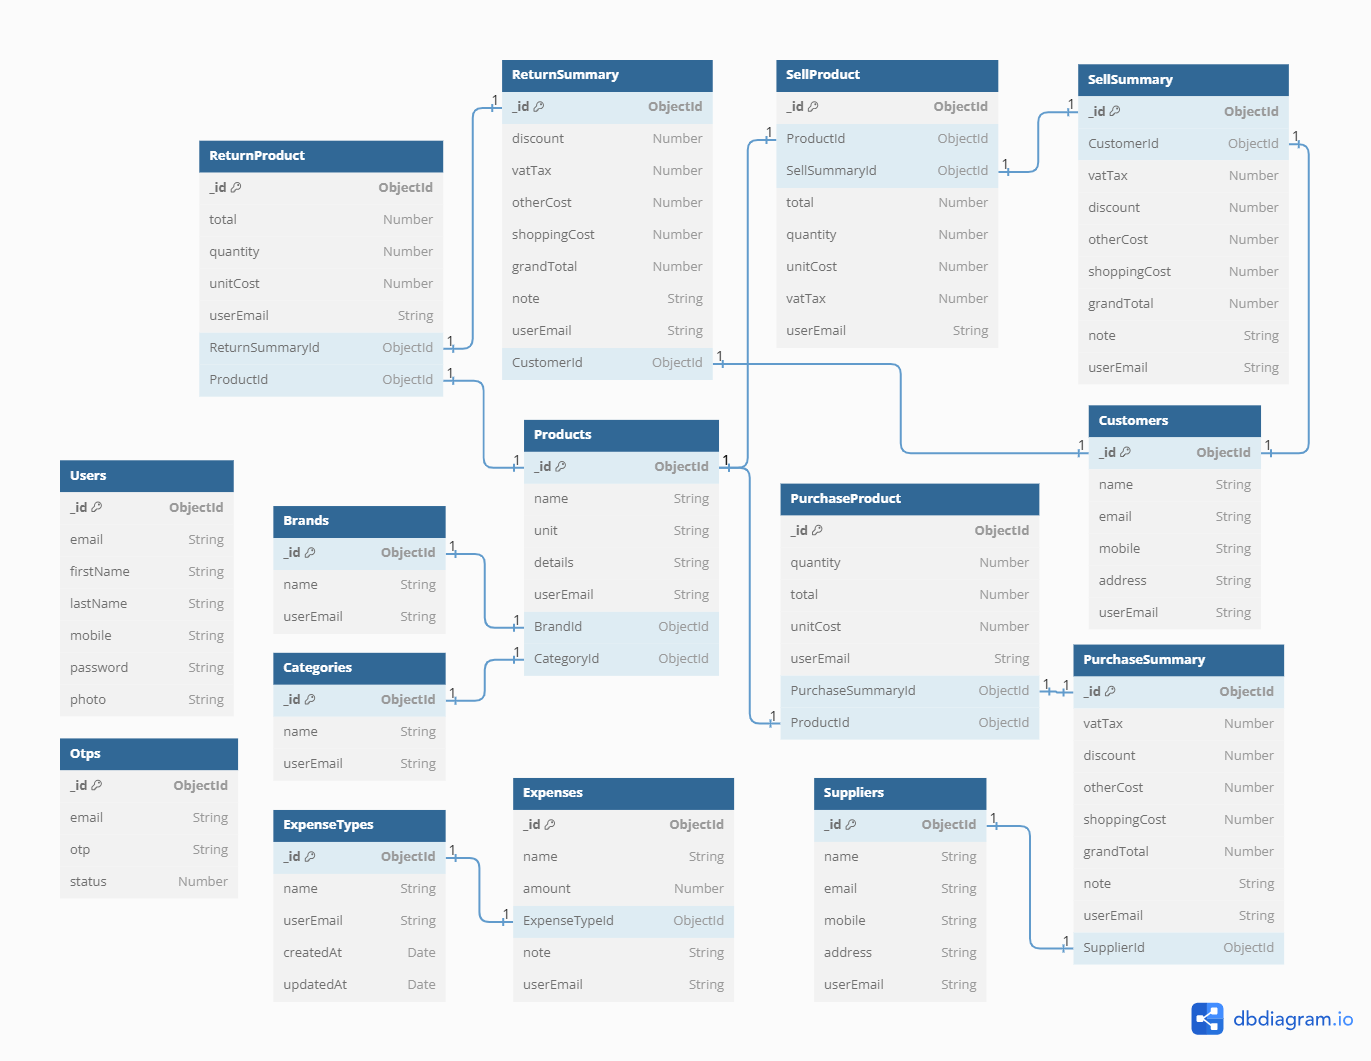
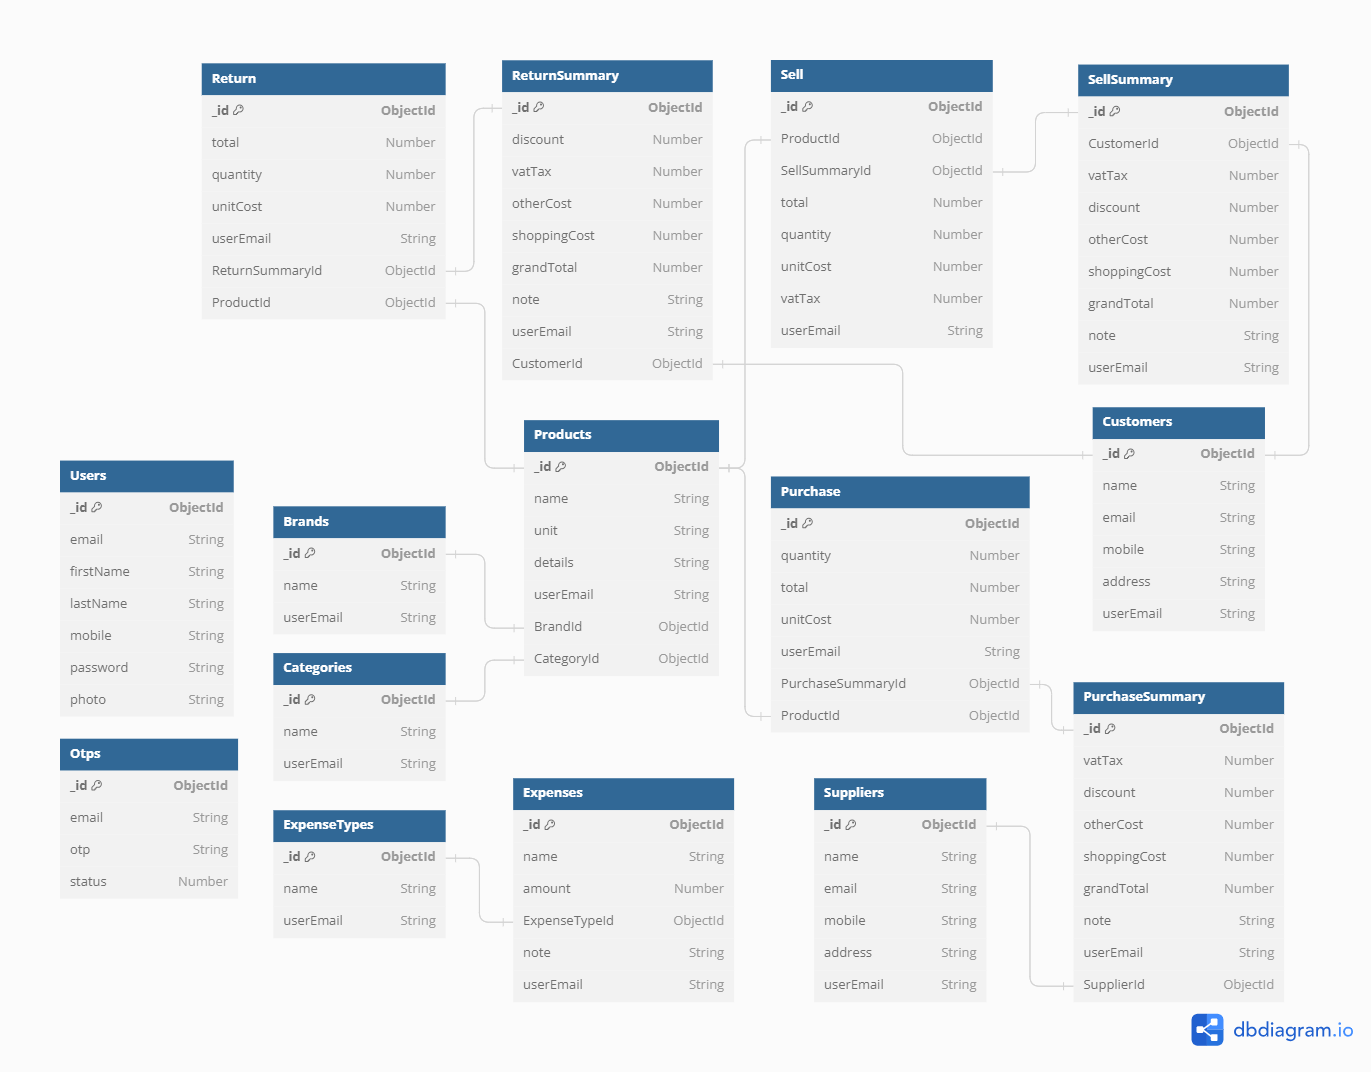
[Return]: Features Implement

diff --git a/backend/src/controllers/return.controller.js b/backend/src/controllers/return.controller.js
@@ -1,0 +1,48 @@
+const catchAsync = require("../utils/catchAsync");
+const sendSuccessResponse = require("../utils/sendSuccessResponse");
+const ReturnServices = require("../services/common.service");
+const ReturnSummaryModel = require("../models/returnSummary.model");
+const ReturnModel = require("../models/return.model");
+
+const createReturn = catchAsync(async (req, res) => {
+  // service
+  const result = await ReturnServices.multipleCreate(req, ReturnSummaryModel, ReturnModel, "ReturnSummaryId");
+
+  // send response
+  sendSuccessResponse(res, {
+    statusCode: 201,
+    success: true,
+    message: "Create Return Successfully",
+    data: result,
+  });
+});
+
+const returnList = catchAsync(async (req, res) => {
+  const searchRegex = { $regex: req.params.searchKeyword, $options: "i" };
+  const searchArray = [
+    { note: searchRegex },
+    { "Customers.name": searchRegex },
+    { "Customers.email": searchRegex },
+    { "Customers.mobile": searchRegex },
+    { "Customers.address": searchRegex },
+  ];
+  const joinStage1 = {
+    $lookup: { from: "customers", localField: "CustomerId", foreignField: "_id", as: "Customers" },
+  };
+
+  // service
+  const result = await ReturnServices.list(req, ReturnSummaryModel, searchArray, [joinStage1]);
+
+  // send response
+  sendSuccessResponse(res, {
+    statusCode: 200,
+    success: true,
+    message: "Return List Retrieved Successfully",
+    data: result,
+  });
+});
+
+module.exports = {
+  createReturn,
+  returnList,
+};

diff --git a/backend/src/models/returnSummary.model.js b/backend/src/models/returnSummary.model.js
@@ -1,0 +1,19 @@
+const mongoose = require("mongoose");
+
+const returnSummarySchema = new mongoose.Schema(
+  {
+    vatTax: { type: Number, required: true },
+    discount: { type: Number },
+    otherCost: { type: Number },
+    shoppingCost: { type: Number, required: true },
+    grantTotal: { type: Number, required: true },
+    note: { type: String },
+    userEmail: { type: String, required: true },
+    CustomerId: { type: mongoose.Schema.Types.ObjectId, required: true, ref: "Customer" },
+  },
+  { timestamps: true, versionKey: false }
+);
+
+// model
+const ReturnSummary = mongoose.model("returnsummaries", returnSummarySchema);
+module.exports = ReturnSummary;

diff --git a/backend/src/models/return.model.js b/backend/src/models/return.model.js
@@ -1,0 +1,17 @@
+const mongoose = require("mongoose");
+
+const returnSchema = new mongoose.Schema(
+  {
+    quantity: { type: Number, required: true },
+    total: { type: Number, required: true },
+    unitCost: { type: Number, required: true },
+    ProductId: { type: mongoose.Schema.Types.ObjectId, required: true, ref: "Product" },
+    userEmail: { type: String, required: true },
+    ReturnSummaryId: { type: mongoose.Schema.Types.ObjectId, required: true, ref: "ReturnSummary" },
+  },
+  { timestamps: true, versionKey: false }
+);
+
+// model
+const Return = mongoose.model("returns", returnSchema);
+module.exports = Return;

diff --git a/backend/src/routes/return.route.js b/backend/src/routes/return.route.js
@@ -1,0 +1,15 @@
+const express = require("express");
+const returnRoutes = express.Router();
+
+const ReturnControllers = require("../controllers/return.controller");
+const checkAuth = require("../middlewares/checkAuth");
+const { USER_ROLE } = require("../constants/user.constants");
+
+returnRoutes.post("/create", checkAuth(USER_ROLE.user), ReturnControllers.createReturn);
+returnRoutes.get(
+  "/:pageNumber/:perPage/:searchKeyword",
+  checkAuth(USER_ROLE.user),
+  ReturnControllers.returnList
+);
+
+module.exports = returnRoutes;

diff --git a/backend/src/routes/router.js b/backend/src/routes/router.js
@@ -11,6 +11,7 @@ const ExpenseRoutes = require("./expense.route");
 const ProductRoutes = require("./product.route");
 const PurchaseRoutes = require("./purchase.route");
 const SellRoutes = require("./sell.route");
+const ReturnRoutes = require("./return.route");
 
 const routes = [
   {
@@ -48,6 +49,10 @@ const routes = [
   {
     path: "/sell",
     route: SellRoutes,
+  },
+  {
+    path: "/return",
+    route: ReturnRoutes,
   },
 ];
 

diff --git a/backend/src/errors/handleDuplicateError.js b/backend/src/errors/handleDuplicateError.js
@@ -1,5 +1,4 @@
 const handleDuplicateError = (error) => {
-  console.log(error);
   const statusCode = 400;
 
   const match = error.message.match(/"([^"]*)"/);
